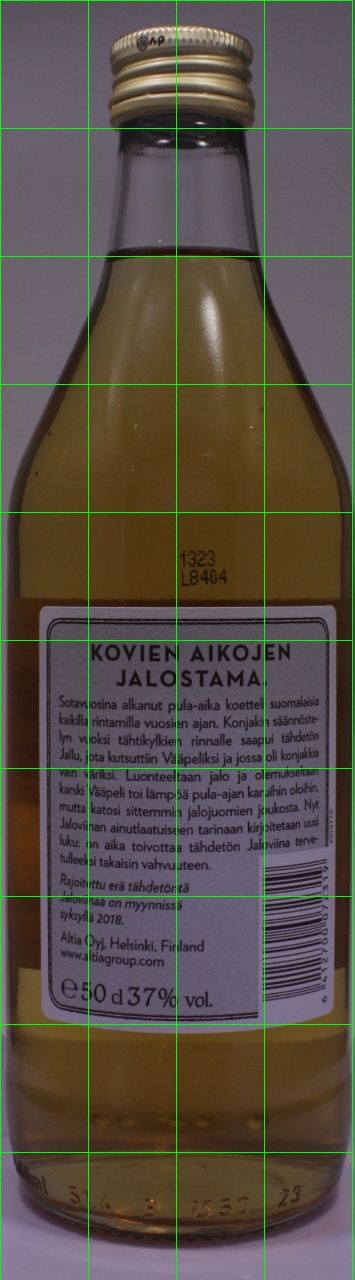
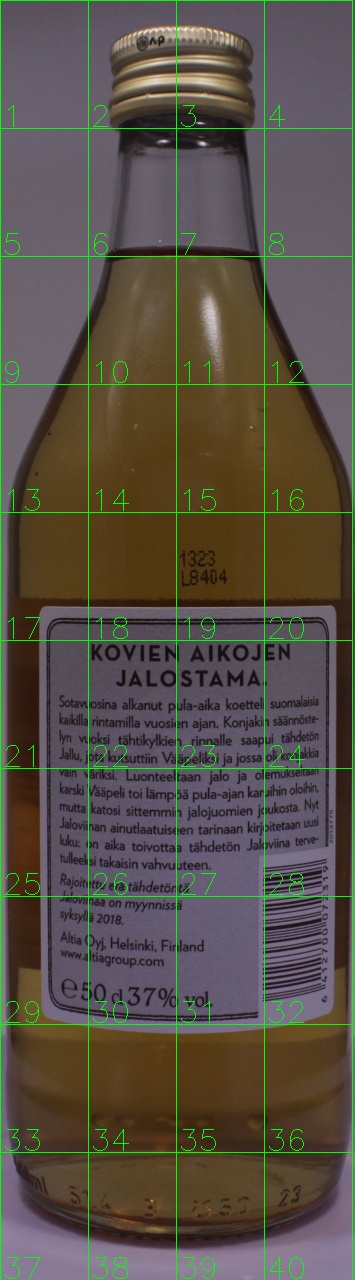
Unit test draw and display rectangles - added numbering to boxes

diff --git a/bottle.py b/bottle.py
@@ -49,21 +49,30 @@ class Bottle(object):
 
         np.copyto(self.bottle_image_with_boxes, self.bottle_image)
         # Draw rectangles
+        box_number = 0
         for down_index in range(0, boxes_down):
             for across_index in range(0, boxes_across):
-
+                # Box Coordinates
                 ul_px = across_index * self.box_width_px
                 lr_px = ul_px + self.box_width_px
                 ul_py = down_index * self.box_height_px
                 lr_py = ul_py + self.box_height_px
+                box_number = box_number + 1
 
+                # Text coordinates
+                ll_px = ul_px + 2
+                ll_py = ul_py + self.box_height_px - 2
+
+                # Draw rectangle
                 cv2.rectangle(self.bottle_image_with_boxes, (ul_px, ul_py), (lr_px, lr_py), color=(0, 255, 0), thickness=1)
+
+                # Draw box number in rectangle
+                cv2.putText(self.bottle_image_with_boxes, str(box_number), (ll_px, ll_py), cv2.FONT_HERSHEY_SIMPLEX, 1.0, (0, 255, 0))
 
         cv2.imshow('image', self.bottle_image_with_boxes)
         cv2.waitKey(0)
         cv2.destroyAllWindows()
-        cv2.imwrite('images/unit_test/bottle_with_boxes.jpg', self.bottle_image_with_boxes)
-
+        cv2.imwrite('bottle_with_boxes.jpg', self.bottle_image_with_boxes)
 
 
 
